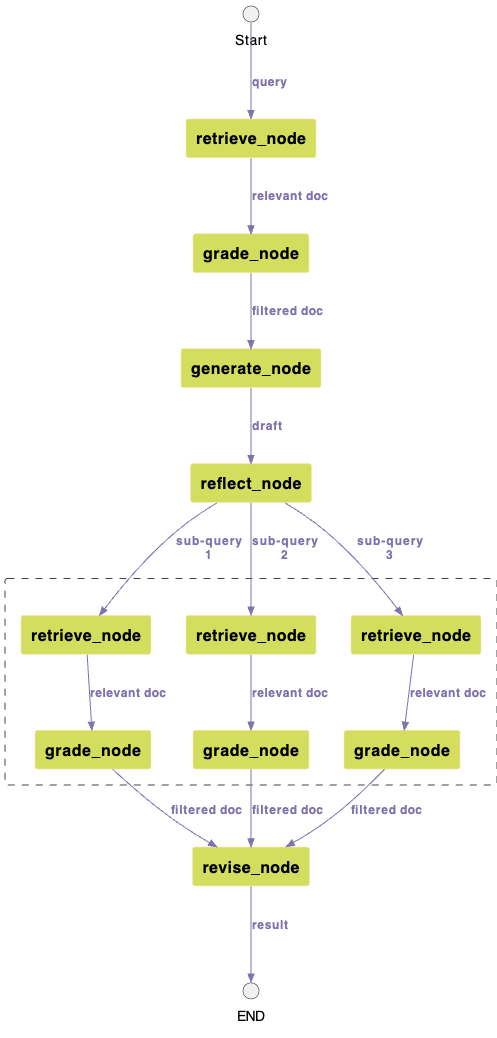
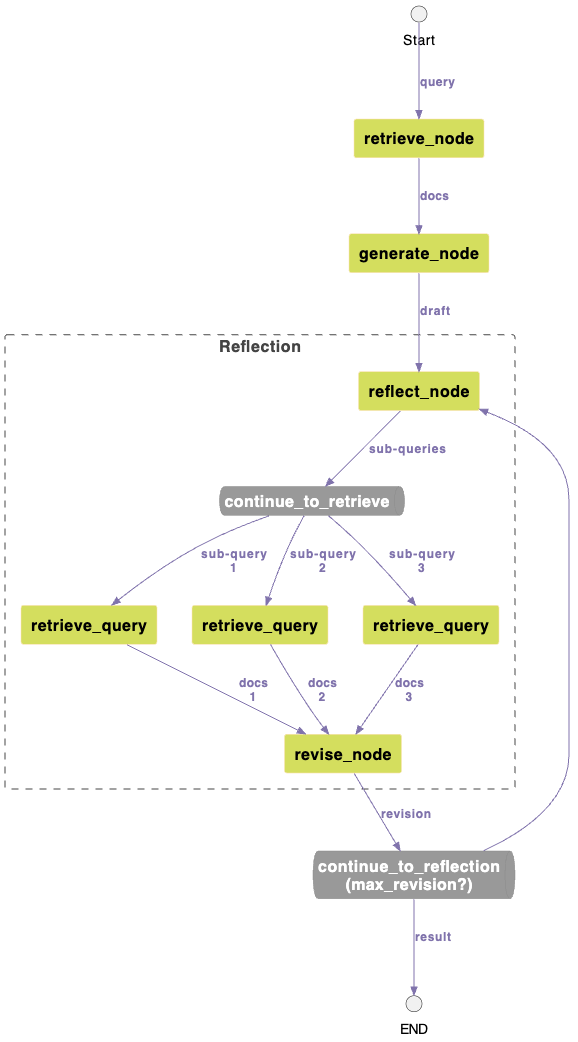
update

Changed region(s): [[0.3018, 0.0, 1.0, 1.0], [0.0, 0.5549, 0.332, 0.7707], [0.8753, 0.4008, 0.9054, 0.4316]]

diff --git a/lambda-chat-ws/lambda_function.py b/lambda-chat-ws/lambda_function.py
@@ -828,7 +828,10 @@ class State(TypedDict):
     reflection : List[str]
     search_queries : List[str]
 
-def retrieve_node(state: State):
+class RetrieveState(TypedDict):
+    query: str
+
+def retrieve_node(state: RetrieveState):
     print("###### retrieve ######")
     query = state['query']
     relevant_docs = retrieve_from_knowledge_base(query)
@@ -847,7 +850,6 @@ def retrieve_node(state: State):
     #        filtered_docs += grade_documents(q, docs)
     
     return {
-        "query": query,
         "docs": filtered_docs
     }
 
@@ -1029,6 +1031,23 @@ def revise_node(state: State):
 ####################### LangGraph #######################
 # RAG with Reflection
 #########################################################
+
+def continue_to_revise(state: State):
+    print('###### continue_to_revise ######')
+    print('state (continue_to_revise): ', state)
+    
+    revise_request = []
+    for idx, sub_query in enumerate(state["search_queries"]):
+        print(f"draft[{idx}]: {sub_query}")
+        
+        if sub_query:
+            revise_request.append(Send("revise_node", {
+                "sub_query": sub_query
+            }))
+    
+    print('revise_request: ', revise_request)
+    
+    return revise_request
                 
 def buildRagWithReflection():
     workflow = StateGraph(State)
@@ -1041,11 +1060,18 @@ def buildRagWithReflection():
 
     # Set entry point
     workflow.set_entry_point("retrieve_node")
-        
-    # Add edges
+    
     workflow.add_edge("retrieve_node", "generate_node")
     workflow.add_edge("generate_node", "reflect_node")
-    workflow.add_edge("reflect_node", "revise_node")
+    
+    workflow.add_conditional_edges(
+        "reflect_node", 
+        continue_to_revise, 
+        ["retrieve_node"]
+    )
+        
+    # Add edges
+    workflow.add_edge("retrieve_node", "revise_node")    
     workflow.add_edge("revise_node", END)
         
     return workflow.compile()
